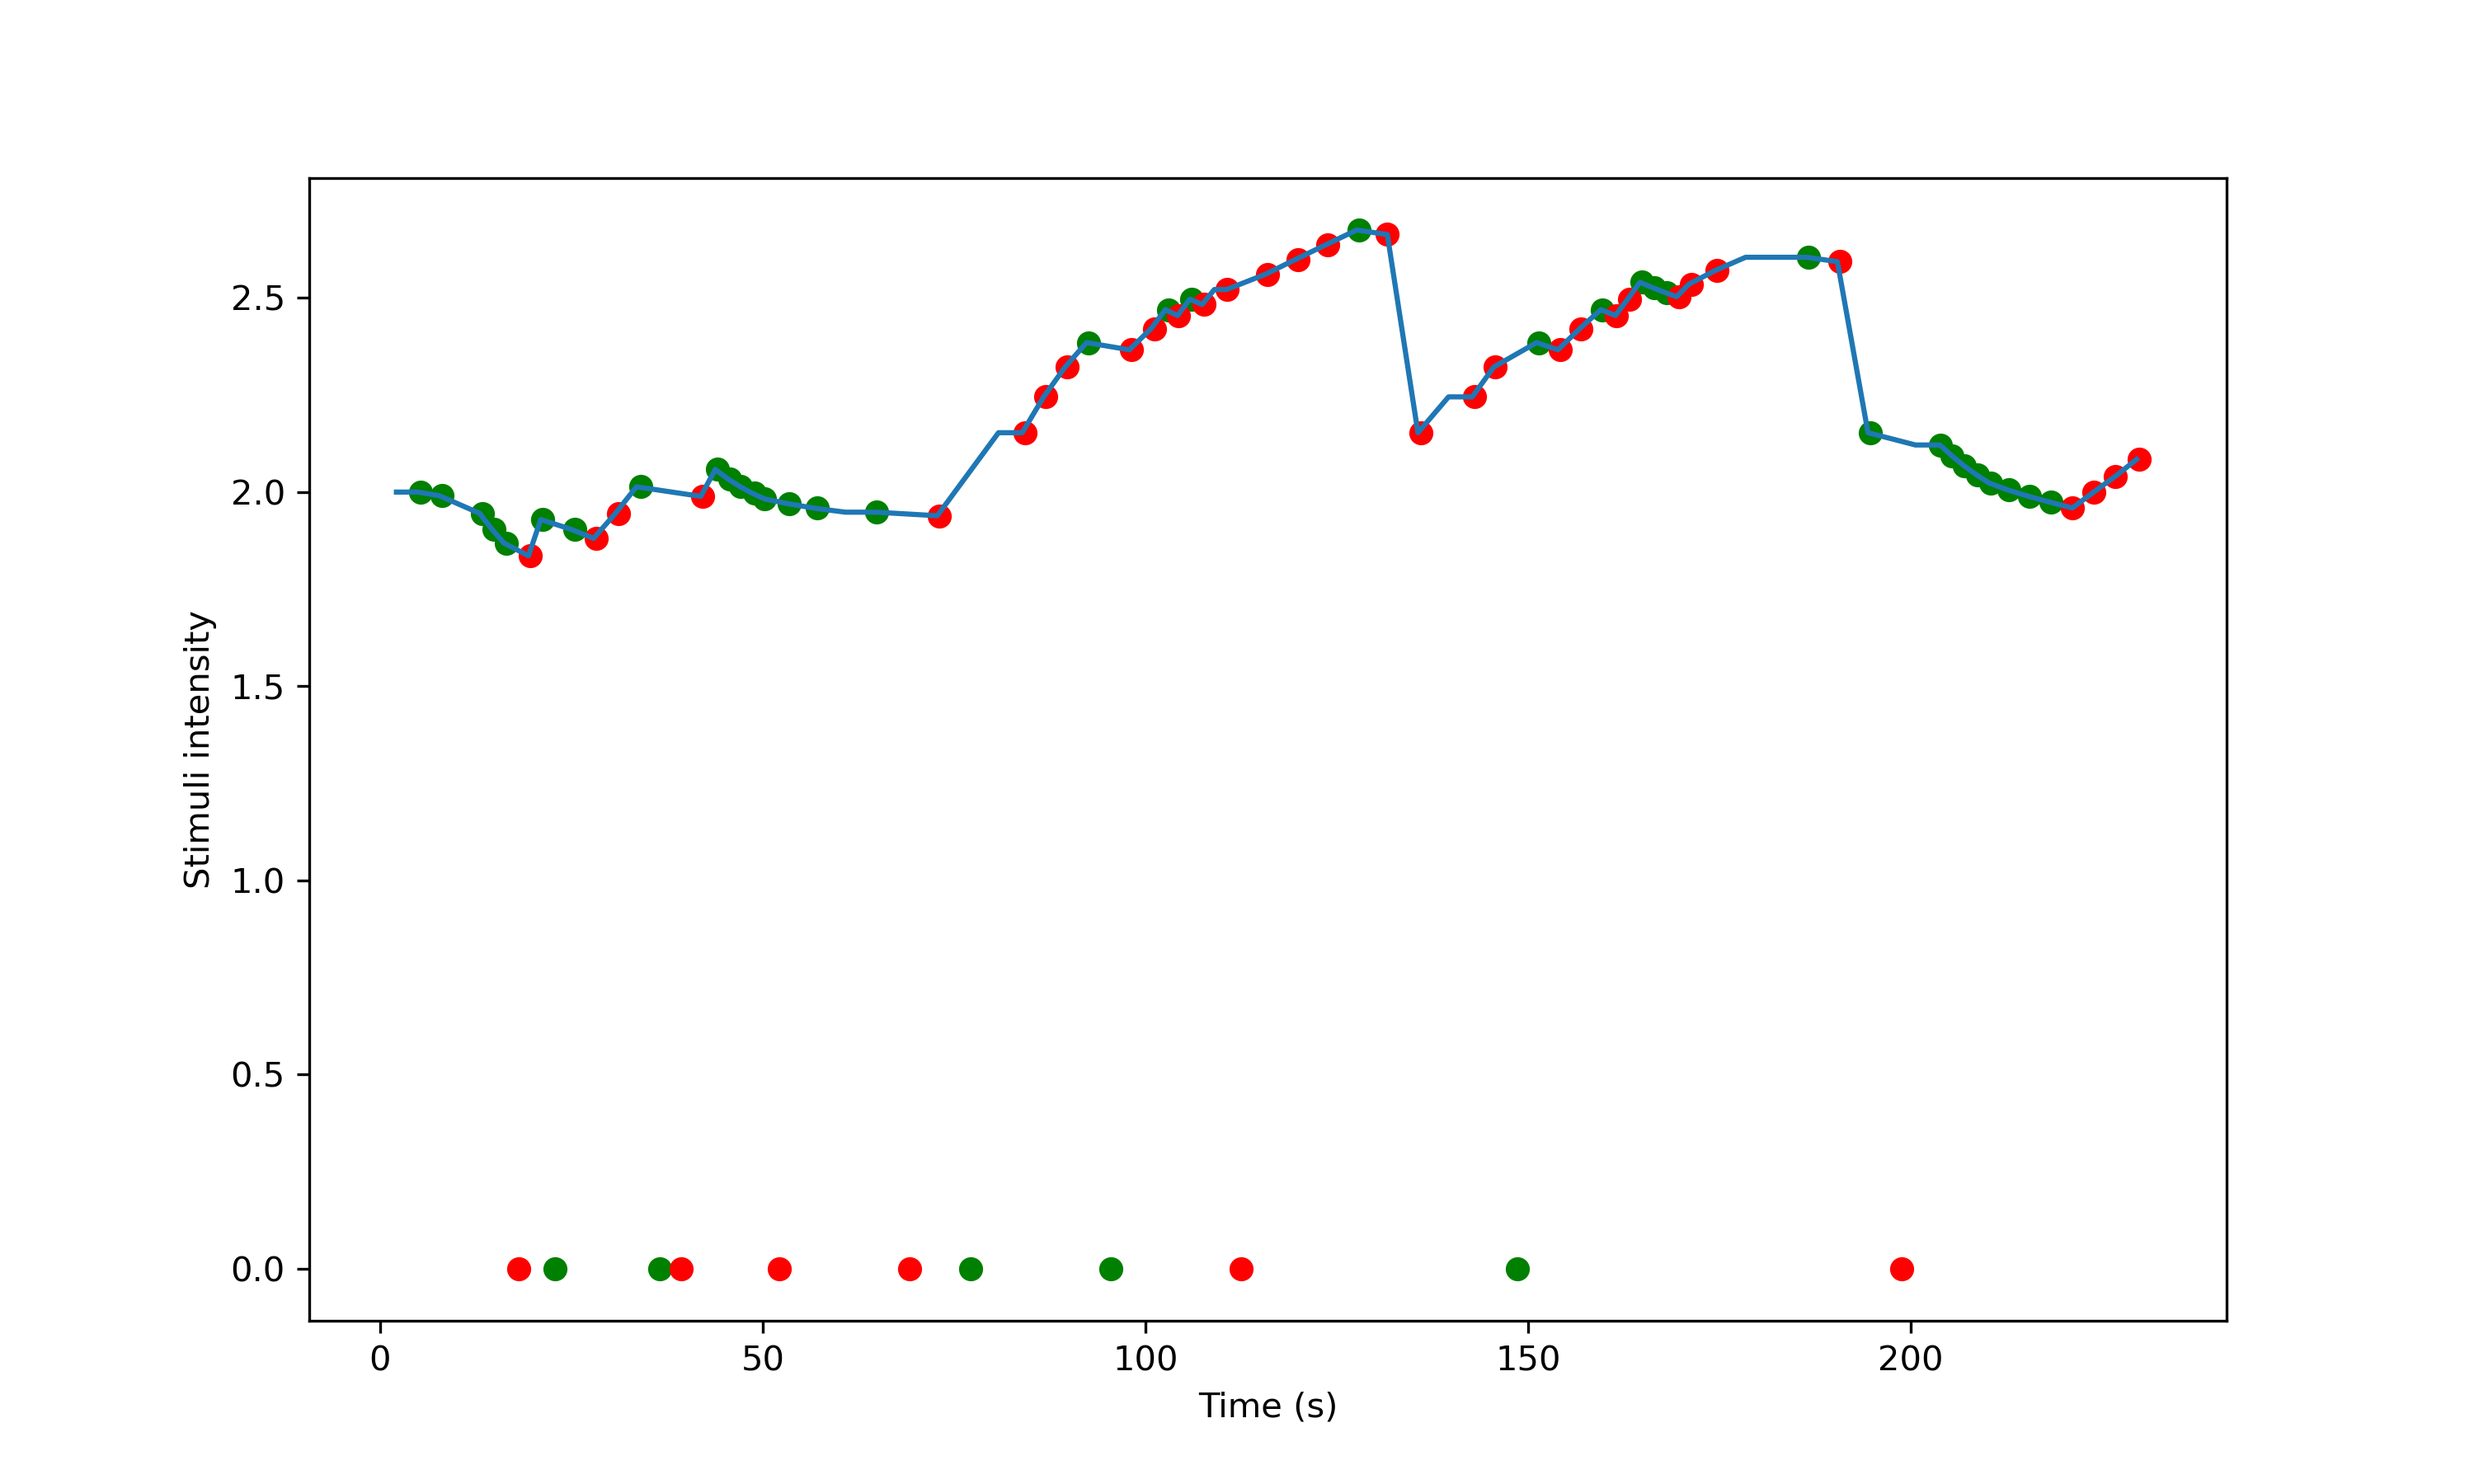
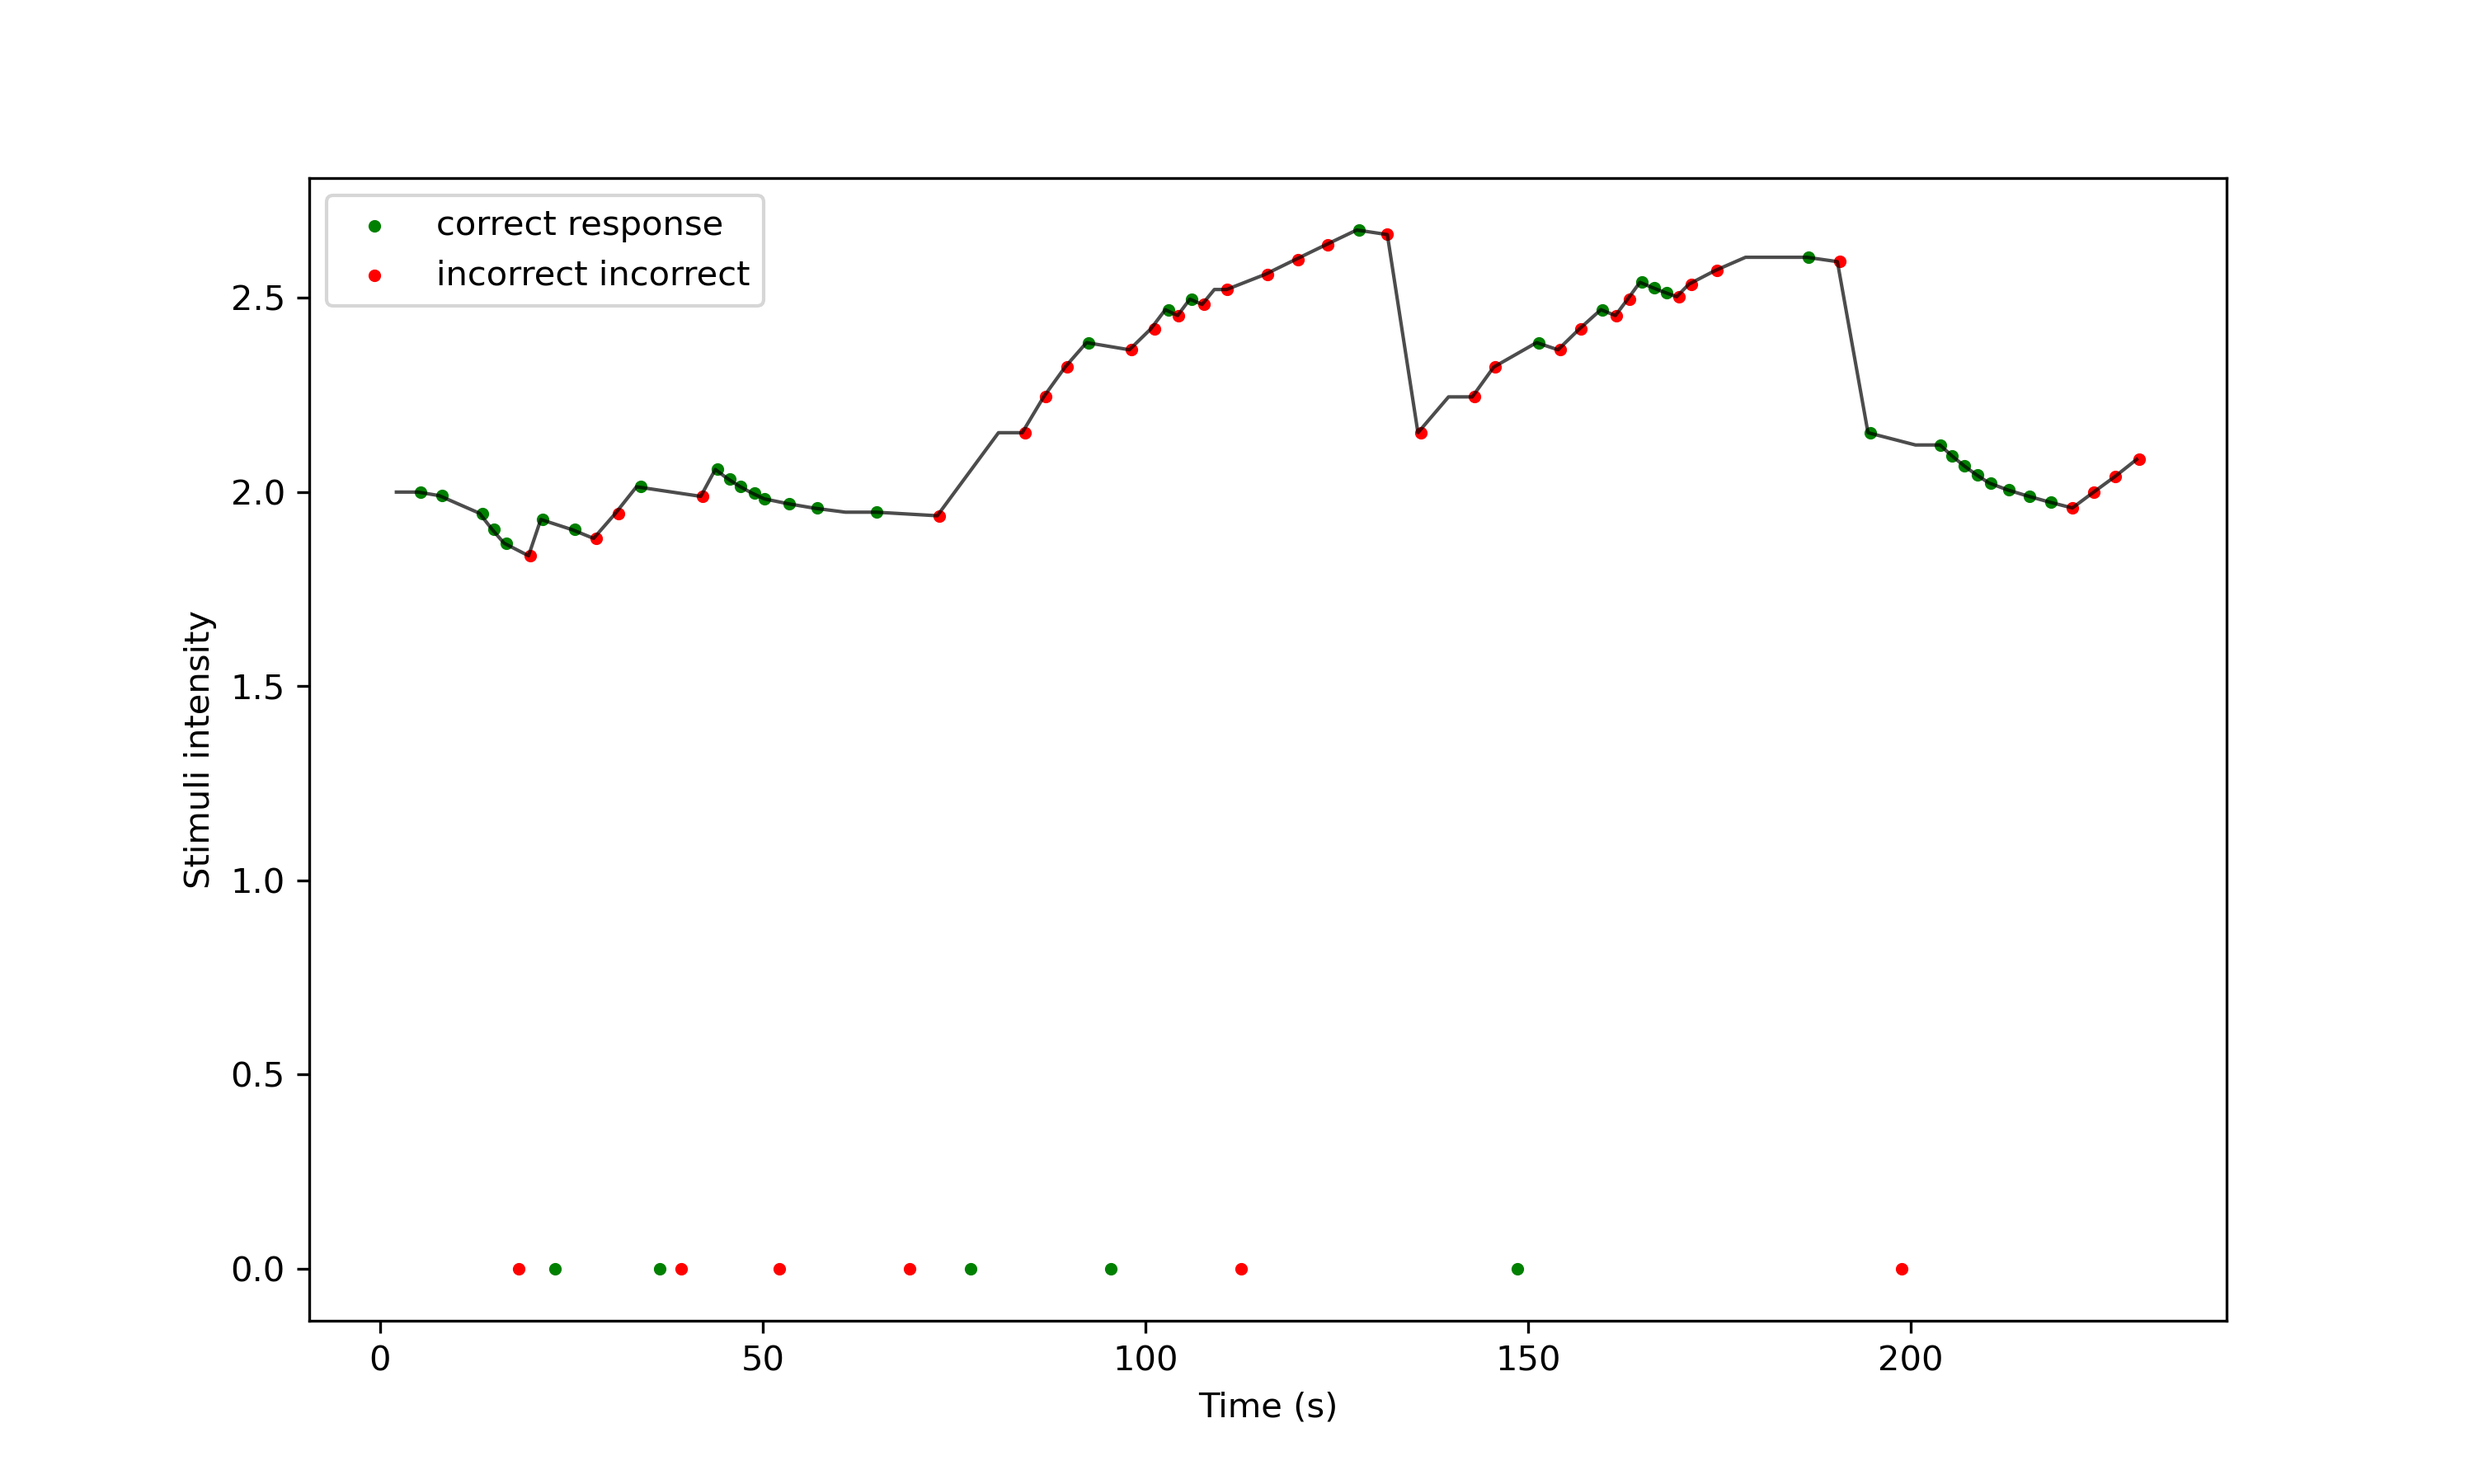
update QUEST plot

diff --git a/sanity_checks.py b/sanity_checks.py
@@ -6,23 +6,24 @@ import pandas as pd
 def plot_intensity(df):
     fig, ax = plt.subplots(1, 1, figsize = (10, 6), dpi = 300)
 
-    df_weak = df[df["event_type"]== "target/weak"]
-    ax.plot(df_weak["time"], df_weak["intensity"])
-    
-    
-    
+
     # correct
     correct= df[df["correct"] == 1]
-    ax.scatter(correct["time"], correct["intensity"], c = "green", label = "correct")
+    ax.scatter(correct["time"], correct["intensity"], c = "green", label = "correct response", s = 7)
 
     #incorrect 
     incorrect = df[df["correct"] == 0]
-    ax.scatter(incorrect["time"], incorrect["intensity"], c = "red", label = "incorrect")
+    ax.scatter(incorrect["time"], incorrect["intensity"], c = "red", label = "incorrect incorrect", s = 7)
+
+    df_weak = df[df["event_type"]== "target/weak"]
+    ax.plot(df_weak["time"], df_weak["intensity"], c = "k", alpha = 0.7, linewidth = 1)
+
+    
 
     ax.set_ylabel("Stimuli intensity")
     ax.set_xlabel("Time (s)")
 
-
+    ax.legend()
 
     plt.savefig("fig/QUEST.png")
 
